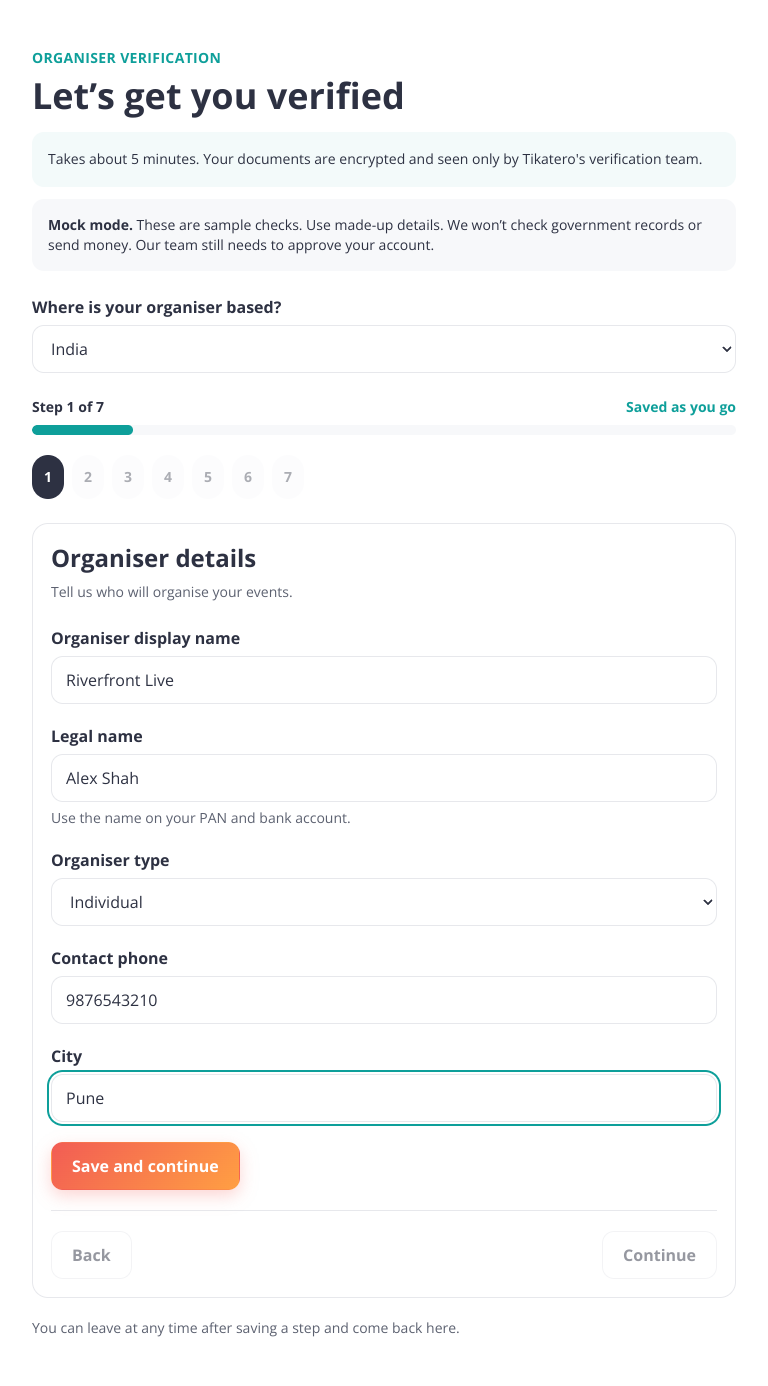
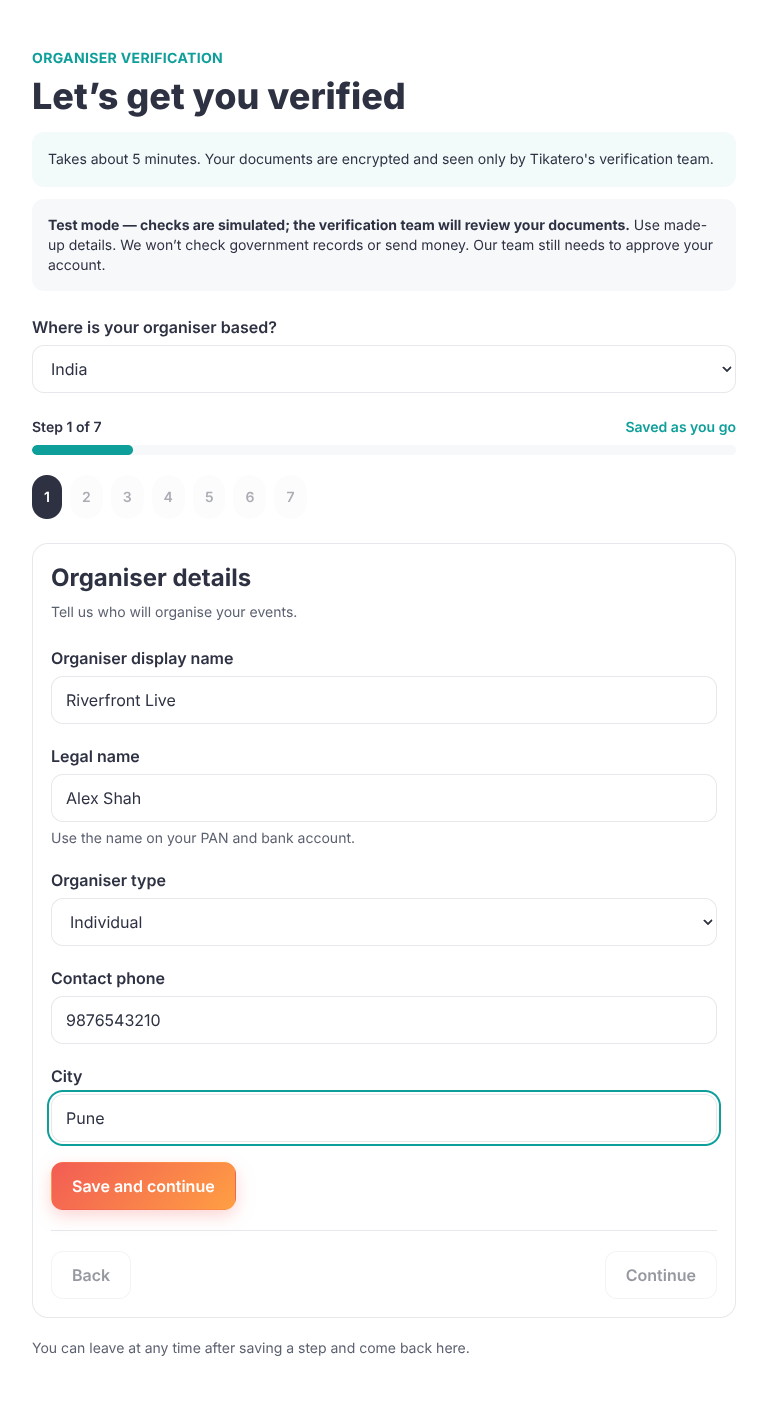
fix: isolate KYC fixtures and require review for production mock checks

diff --git a/app/console/onboarding/actions.test.ts b/app/console/onboarding/actions.test.ts
@@ -69,6 +69,8 @@ const form = (step: string, values: Record<string, string> = {}) => {
 beforeEach(() => {
   vi.resetAllMocks();
   vi.stubEnv("KYC_MODE", "mock");
+  vi.stubEnv("VERCEL_ENV", "");
+  vi.stubEnv("NODE_ENV", "test");
   vi.stubEnv("KYC_NAME_MATCH_THRESHOLD", "");
   mock.account.mockResolvedValue({
     client: {},
@@ -227,4 +229,31 @@ it("keeps a submitted application saved even if email is unavailable", async () 
   mock.notify.mockRejectedValue(new Error("unavailable"));
   const result = await saveKycStep(initial, form("submit"));
   expect(result.success).toContain("submitted");
+});
+
+it.each([
+  ["production", "production", "mock"],
+  ["production", "production", ""],
+  ["", "production", ""],
+])(
+  "holds simulated evidence for review in Vercel=%s / Node=%s / KYC=%s",
+  async (vercelEnv, nodeEnv, kycMode) => {
+    vi.stubEnv("VERCEL_ENV", vercelEnv);
+    vi.stubEnv("NODE_ENV", nodeEnv);
+    vi.stubEnv("KYC_MODE", kycMode);
+    vi.stubEnv("CASHFREE_SECURE_ID_CLIENT_ID", "");
+    vi.stubEnv("CASHFREE_SECURE_ID_CLIENT_SECRET", "");
+    mock.load.mockResolvedValue(application(complete));
+    const result = await saveKycStep(initial, form("submit"));
+    expect(result.application?.status).toBe("needs_docs");
+    expect(result.application?.flagged_steps).toEqual(["pan", "aadhaar", "bank", "selfie"]);
+    expect(mock.notify).toHaveBeenCalledOnce();
+  },
+);
+it("allows explicit local mock testing in a production Node build without a Vercel production target", async () => {
+  vi.stubEnv("NODE_ENV", "production");
+  vi.stubEnv("KYC_MODE", "mock");
+  mock.load.mockResolvedValue(application(complete));
+  const result = await saveKycStep(initial, form("submit"));
+  expect(result.application?.status).toBe("auto_passed");
 });

diff --git a/lib/kyc/provider.test.ts b/lib/kyc/provider.test.ts
@@ -1,6 +1,6 @@
 import { afterEach, expect, it, vi } from "vitest";
 vi.mock("server-only", () => ({}));
-import { kycProvider } from "./index";
+import { kycProvider, mockNeedsManualReview } from "./index";
 import { MockKycProvider } from "./mock";
 import { CashfreeSecureId } from "./cashfree-secure-id";
 afterEach(() => {
@@ -108,3 +108,19 @@ it("live Aadhaar checks provider consent and reduces a document to last four onl
     last4: "1234",
   });
 });
+
+it.each([
+  ["production", "production", "mock", true],
+  ["production", "development", "mock", true],
+  ["", "production", "", true],
+  ["preview", "production", "mock", false],
+  ["", "development", "", false],
+])(
+  "classifies production mock review policy (%s, %s, %s)",
+  (vercelEnv, nodeEnv, kycMode, expected) => {
+    vi.stubEnv("VERCEL_ENV", vercelEnv);
+    vi.stubEnv("NODE_ENV", nodeEnv);
+    vi.stubEnv("KYC_MODE", kycMode);
+    expect(mockNeedsManualReview()).toBe(expected);
+  },
+);

diff --git a/app/console/onboarding/actions.ts b/app/console/onboarding/actions.ts
@@ -3,7 +3,7 @@ import { KycError } from "@/lib/kyc/model";
 import { requireAccount } from "@/lib/auth/account";
 import { createServiceClient } from "@/lib/supabase/service";
 import { requireKycMembership } from "@/lib/kyc/access";
-import { kycProvider } from "@/lib/kyc";
+import { kycProvider, mockNeedsManualReview } from "@/lib/kyc";
 import {
   autoResult,
   canEdit,
@@ -55,7 +55,7 @@ export async function saveKycStep(_previous: FlowState, data: FormData): Promise
       const result = autoResult(progress, threshold);
       flagged = result.flagged;
       // Simulation results can never become live verification evidence.
-      if (provider.mode === "cashfree")
+      if (provider.mode === "cashfree" || (provider.mode === "mock" && mockNeedsManualReview()))
         for (const step of editableSteps.slice(1) as Exclude<Step, "details">[])
           if (
             progress[step]?.mode === "mock" &&

diff --git a/components/kyc/onboarding.tsx b/components/kyc/onboarding.tsx
@@ -76,8 +76,11 @@ export function Onboarding({ initial }: { initial: FlowState }) {
       </p>
       {initial.mode === "mock" && (
         <p className="mt-3 rounded-xl bg-soft p-4 text-sm text-ink">
-          <strong>Mock mode.</strong> These are sample checks. Use made-up details. We won’t check
-          government records or send money. Our team still needs to approve your account.
+          <strong>
+            Test mode — checks are simulated; the verification team will review your documents.
+          </strong>{" "}
+          Use made-up details. We won’t check government records or send money. Our team still needs
+          to approve your account.
         </p>
       )}
       <div className="my-6">

diff --git a/e2e/kyc-onboarding.spec.ts b/e2e/kyc-onboarding.spec.ts
@@ -40,6 +40,12 @@ test.describe("India organiser verification", () => {
         page.getByRole("heading", { name: "Coming soon — please contact support" }),
       ).toBeVisible();
       await page.getByLabel("Where is your organiser based?").selectOption("IN");
+      await expect(
+        page.getByText(
+          "Test mode — checks are simulated; the verification team will review your documents.",
+          { exact: true },
+        ),
+      ).toBeVisible();
       await page.getByLabel("Organiser display name").fill("Riverfront Live");
       await page.getByLabel("Legal name").fill("Alex Shah");
       await page.getByLabel("Contact phone").fill("9876543210");

diff --git a/lib/kyc/index.ts b/lib/kyc/index.ts
@@ -11,3 +11,10 @@ export function kycProvider(): KycProvider {
     return new MockKycProvider();
   return new CashfreeSecureId();
 }
+
+export function mockNeedsManualReview(): boolean {
+  return (
+    process.env.VERCEL_ENV === "production" ||
+    (process.env.NODE_ENV === "production" && process.env.KYC_MODE !== "mock")
+  );
+}

diff --git a/README.md b/README.md
@@ -163,7 +163,10 @@ New env names (empty in `.env.example`):
 Set `KYC_MODE` to `mock`, **or leave either Secure ID key unset**, to use the mock provider.
 This works without Cashfree or R2 credentials: the mock DigiLocker and selfie steps do not
 upload files. Mock mode is clearly labelled and uses synthetic checks, including Aadhaar ending 1234. It never checks government records or moves money. Never use simulation as evidence for
-staff approval. When switching to Cashfree, old mock checks are flagged for replacement.
+staff approval. Production submissions always flag non-skipped mock checks as `needs_docs`
+when `VERCEL_ENV=production`, even with explicit mock mode. A production Node build also holds
+simulated evidence unless `KYC_MODE=mock` is explicitly set for local/preview testing. The banner
+clearly labels all simulated checks. When switching to Cashfree, old mock checks are flagged for replacement.
 `KYC_NAME_MATCH_THRESHOLD` defaults to 85; invalid/out-of-range settings fail closed.
 
 With both Secure ID keys set and mock mode off, `CASHFREE_SECURE_ID_ENV` accepts `sandbox`
